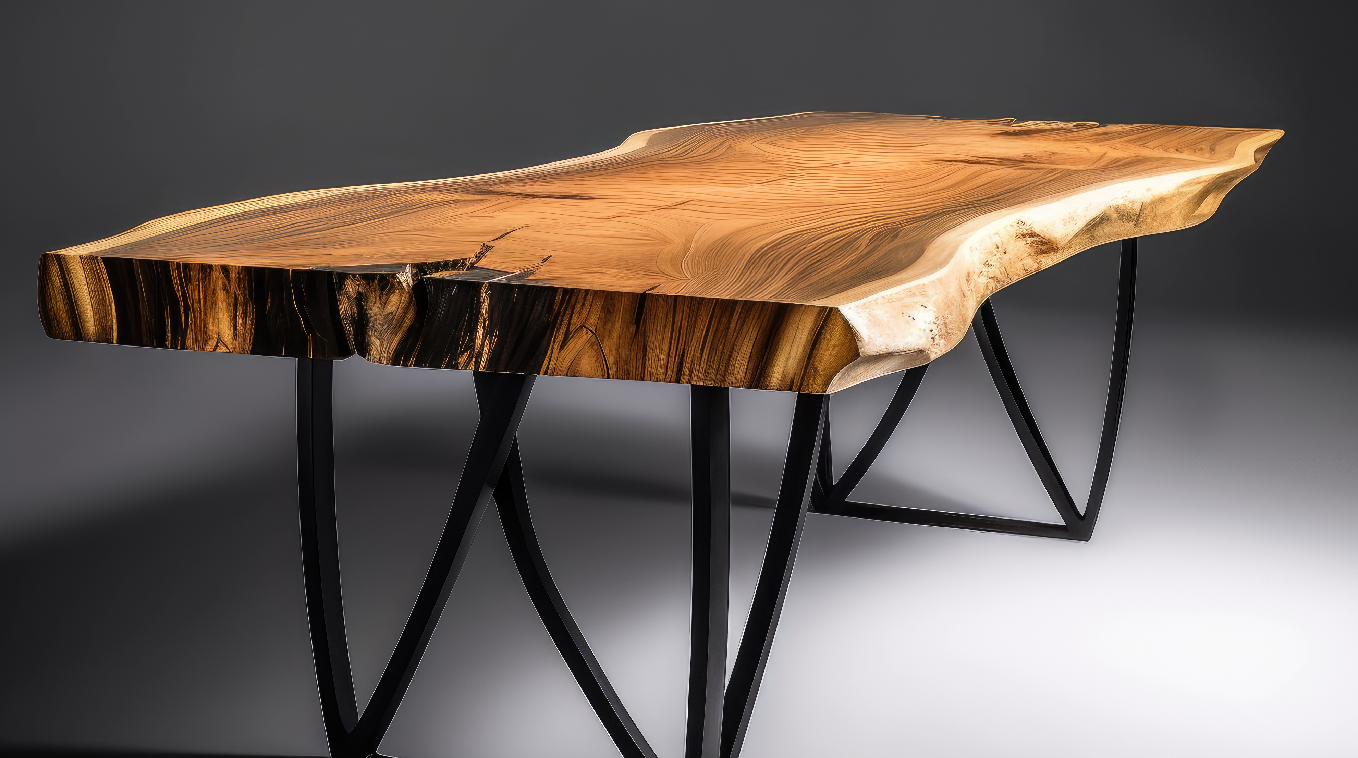
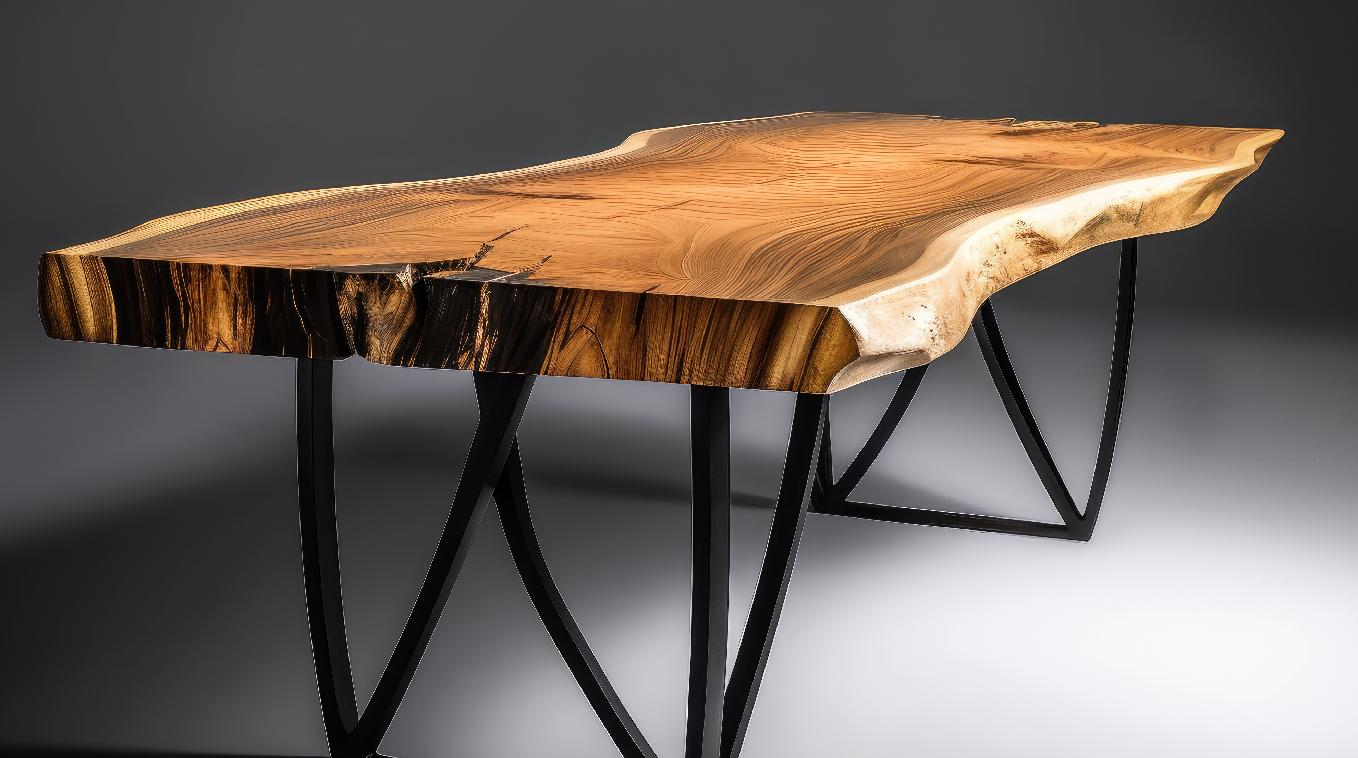
Optimized product images

diff --git a/optimize_imgs.py b/optimize_imgs.py
@@ -1,0 +1,36 @@
+#!/usr/bin/env python3
+"""
+Optimize a list of images in specified paths (in argv) using
+PIL.Image class.
+"""
+import os
+from sys import argv, exit
+from PIL import Image
+
+if len(argv) < 2:
+    print("Usage: {} <dir-1> <dir-2> ...".format(argv[0]))
+    exit(-1)
+else:
+    argv.pop(0)
+
+image_formats = ["jpeg", "jpg", "png", "bmp",
+                 "gif", "tiff", "tif", "webp", "ico"]
+
+
+for path in argv:
+    if not all([os.path.exists(path), os.path.isdir(path)]):
+        continue
+    file_list = os.listdir(path)
+    for file in file_list:
+        file_path = '/'.join([path, file])
+        image_format = file_path.split('.')[-1]
+        if not all([
+            os.path.isfile(file_path),  # is file
+            image_format in image_formats  # format is supported
+        ]):
+            print('[*] Skipped... {}'.format(file))
+            continue
+        Image.open(file_path).convert('RGB').save(
+            file_path.replace(image_format, 'jpg'), format='JPEG', optimized=True)
+        print('[*] Optimized... {}'.format(file))
+        os.remove(file_path)
